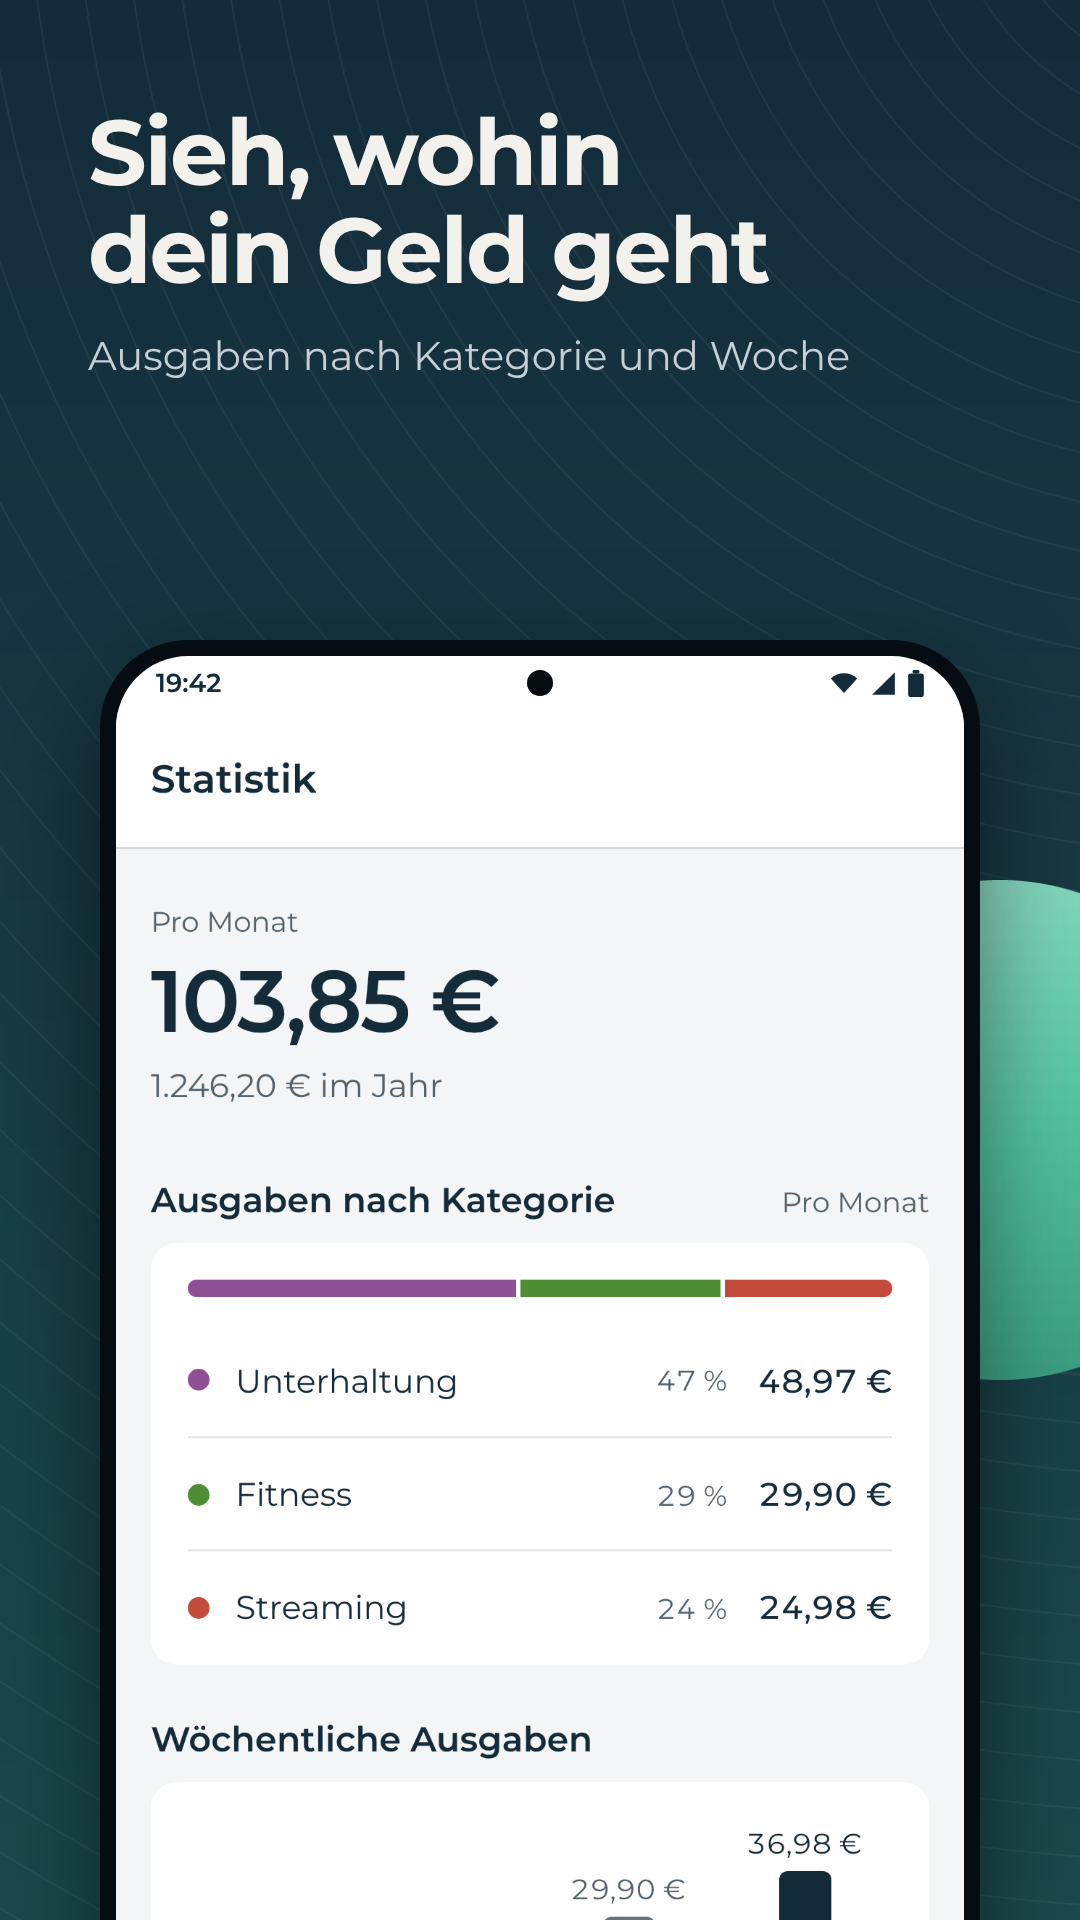
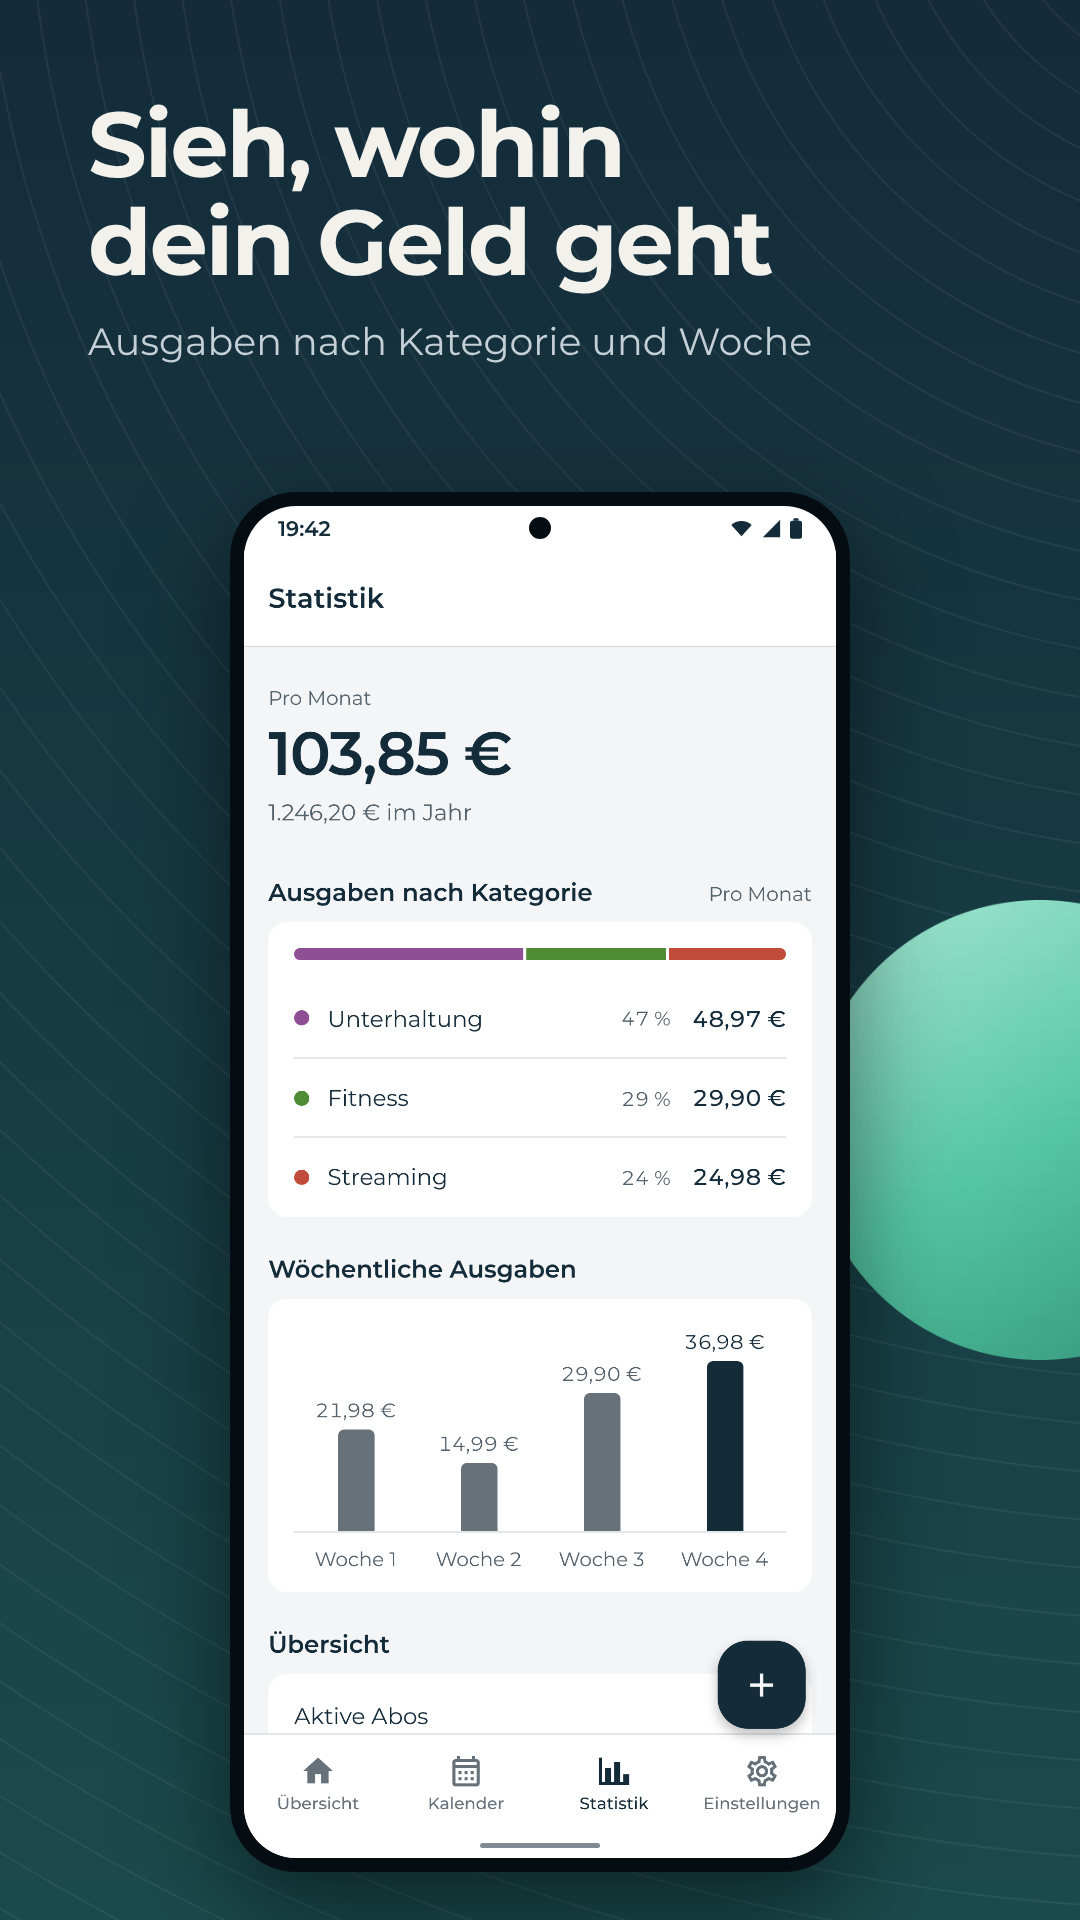
Play screenshots: show the whole phone and the app's whole screen
On a phone the second set read as cut off: the drawn phone ran off the
bottom of each frame. Now the phone stands whole in every frame, gesture
bar included, with the app's complete screen inside it, tab bar
included. The reminder notification on the first frame sits inside the
phone over the status bar and app bar only, as Android shows it.

compose.js refuses a raw screen of the wrong size instead of cropping or
stretching it, and steps a headline down until it fits above the phone.

Store art and tooling only: deploys nothing.

Claude-Session: https://claude.ai/code/session_018ye9DFVeXhKfQr21ffWbhc

diff --git a/tools/store-screenshots/compose.js b/tools/store-screenshots/compose.js
@@ -4,9 +4,10 @@
 //
 // THE SECOND SET, 2026-11-26, in the look the app now opens with (the Brand
 // panel): the navy stage and its rings behind the phone, the mint lens behind
-// it for depth, larger type, a larger phone, and on the first frame the real
-// reminder notification the app sends, in its own words. The last frame keeps
-// the light ground so the set does not read as one picture six times.
+// it for depth, larger type, the whole phone and the app's whole screen, and on
+// the first frame the real reminder notification the app sends, in its own
+// words, inside the phone as Android shows it. The last frame keeps the light
+// ground so the set does not read as one picture six times.
 const { chromium } = require('playwright');
 const fs = require('fs'), path = require('path');
 const ROOT = path.resolve(__dirname, '..', '..');
@@ -24,49 +25,66 @@ const LEAD_ON_STAGE = '#C5D0D6';
 const INK = '#142B3A';
 const SLATE = '#52616B';
 
-const PHONE_TOP = 640;
-const PHONE_W = 880;
+// THE WHOLE PHONE, 2026-11-27, the owner's call ("should be the whole phone
+// without leaving anything out"): the phone stands complete inside the frame,
+// and the app's complete screen inside the phone, tab bar included. Its size
+// follows from the room under the caption, not the other way round.
+const PHONE_TOP = 492;
+const PHONE_BOTTOM = 1872;
+const BEZEL = 14;
+const STATUS_H = 44;
+const GESTURE_H = 26;
+const RAW_W = 1170;
+const RAW_H = 2532;
+const IMG_H = PHONE_BOTTOM - PHONE_TOP - 2 * BEZEL - STATUS_H - GESTURE_H;
+const SCREEN_W = Math.round((IMG_H * RAW_W) / RAW_H);
+const PHONE_W = SCREEN_W + 2 * BEZEL;
+const PHONE_LEFT = Math.round((1080 - PHONE_W) / 2);
 
-const html = ({ shot, bar, ground, title, sub, lens, note }) => {
+const html = ({ shot, bar, foot, ground, title, sub, lens, note, h1 }) => {
   const stage = ground === 'stage';
   const barText = bar.dark ? '#F2F1EC' : '#142B3A';
-  const lensLeft = lens === 'left' ? -170 : 1080 - 330;
+  const pill = foot.dark ? '#F2F1EC' : '#142B3A';
+  const lensLeft = lens === 'left' ? -210 : PHONE_LEFT + PHONE_W - 40;
   return `<!doctype html><html><head><meta charset="utf-8"><style>
 @font-face{font-family:M;font-weight:400;src:${font('Regular')}}
 @font-face{font-family:M;font-weight:600;src:${font('SemiBold')}}
 @font-face{font-family:M;font-weight:700;src:${font('Bold')}}
 html,body{margin:0;width:1080px;height:1920px;overflow:hidden;font-family:M;
  background:${stage ? `#142B3A url(${url('assets/brand/stage.png')}) right top / auto 1920px no-repeat` : '#F3F5F6'}}
-.lens{position:absolute;left:${lensLeft}px;top:${note ? 1040 : 880}px;width:500px;height:500px}
-.cap{position:absolute;left:88px;right:88px;top:104px}
-h1{text-wrap:balance;margin:0;font-weight:700;font-size:92px;line-height:1.06;letter-spacing:-2.2px;color:${stage ? INK_ON_STAGE : INK}}
-p{text-wrap:pretty;margin:30px 0 0;font-weight:400;font-size:40px;line-height:1.36;color:${stage ? LEAD_ON_STAGE : SLATE}}
-.phone{position:absolute;left:${(1080 - PHONE_W) / 2}px;top:${PHONE_TOP}px;width:${PHONE_W}px;height:1700px;border-radius:88px;background:#060D12;
- box-shadow:0 40px 110px rgba(0,0,0,${stage ? 0.5 : 0.22})}
-.screen{position:absolute;left:16px;top:16px;right:16px;bottom:0;border-radius:72px 72px 0 0;overflow:hidden;background:${bar.color}}
-.status{height:54px;display:flex;align-items:center;justify-content:space-between;padding:0 40px;color:${barText};font-weight:600;font-size:26px;position:relative}
-.cam{position:absolute;left:50%;top:14px;width:26px;height:26px;margin-left:-13px;border-radius:50%;background:#060D12}
-.icons{display:flex;gap:12px;align-items:center}
-.screen img{display:block;width:${PHONE_W - 32}px}
-.note{position:absolute;left:72px;right:72px;top:${PHONE_TOP + 14}px;background:#FFFFFF;border-radius:40px;padding:34px 40px 38px;
- box-shadow:0 30px 80px rgba(6,13,18,.45)}
-.nhead{display:flex;align-items:center;gap:16px;color:${SLATE};font-size:27px;font-weight:600}
-.nicon{width:44px;height:44px;border-radius:50%;background:#142B3A;display:flex;align-items:center;justify-content:center}
-.nicon img{width:26px;height:28px}
-.dot{width:6px;height:6px;border-radius:50%;background:${SLATE}}
-.ntitle{margin-top:20px;color:${INK};font-weight:600;font-size:38px;line-height:1.25}
-.nbody{margin-top:8px;color:${SLATE};font-size:32px;line-height:1.35}
+.lens{position:absolute;left:${lensLeft}px;top:${note ? 1060 : 900}px;width:460px;height:460px}
+.cap{position:absolute;left:88px;right:88px;top:96px}
+h1{text-wrap:balance;margin:0;font-weight:700;font-size:${h1}px;line-height:1.06;letter-spacing:-2px;color:${stage ? INK_ON_STAGE : INK}}
+p{text-wrap:pretty;margin:26px 0 0;font-weight:400;font-size:38px;line-height:1.34;color:${stage ? LEAD_ON_STAGE : SLATE}}
+.phone{position:absolute;left:${PHONE_LEFT}px;top:${PHONE_TOP}px;width:${PHONE_W}px;height:${PHONE_BOTTOM - PHONE_TOP}px;border-radius:66px;background:#060D12;
+ box-shadow:0 36px 100px rgba(0,0,0,${stage ? 0.5 : 0.22})}
+.screen{position:absolute;left:${BEZEL}px;top:${BEZEL}px;width:${SCREEN_W}px;bottom:${BEZEL}px;border-radius:52px;overflow:hidden;background:${bar.color};display:flex;flex-direction:column}
+.status{flex:none;height:${STATUS_H}px;display:flex;align-items:center;justify-content:space-between;padding:0 34px;color:${barText};font-weight:600;font-size:21px;position:relative}
+.cam{position:absolute;left:50%;top:11px;width:22px;height:22px;margin-left:-11px;border-radius:50%;background:#060D12}
+.icons{display:flex;gap:9px;align-items:center}
+.shot{display:block;flex:none;width:${SCREEN_W}px;height:${IMG_H}px}
+.gesture{flex:1;background:${foot.color};display:flex;align-items:center;justify-content:center}
+.gesture span{width:120px;height:5px;border-radius:3px;background:${pill};opacity:.55}
+.note{position:absolute;left:${PHONE_LEFT + BEZEL + 10}px;width:${SCREEN_W - 20}px;box-sizing:border-box;top:${PHONE_TOP + BEZEL + 6}px;
+ background:#FFFFFF;border-radius:28px;padding:14px 20px 16px;box-shadow:0 18px 50px rgba(6,13,18,.40)}
+.nhead{display:flex;align-items:center;gap:10px;color:${SLATE};font-size:17px;font-weight:600}
+.nicon{width:26px;height:26px;border-radius:50%;background:#142B3A;display:flex;align-items:center;justify-content:center}
+.nicon img{width:15px;height:16px}
+.dot{width:4px;height:4px;border-radius:50%;background:${SLATE}}
+.ntitle{margin-top:8px;color:${INK};font-weight:600;font-size:23px;line-height:1.25}
+.nbody{margin-top:3px;color:${SLATE};font-size:20px;line-height:1.35}
 </style></head><body>
 <img class="lens" src="${url('assets/brand/stage-lens.png')}">
 <div class="cap"><h1>${title}</h1><p>${sub}</p></div>
 <div class="phone"><div class="screen">
  <div class="status"><span>${cfg.clock}</span><span class="cam"></span>
   <span class="icons">
-   <svg width="30" height="22" viewBox="0 0 26 20"><path d="M13 19 1 6a17 17 0 0 1 24 0Z" fill="${barText}"/></svg>
-   <svg width="25" height="25" viewBox="0 0 22 22"><path d="M21 1v20H1Z" fill="${barText}"/></svg>
-   <svg width="16" height="27" viewBox="0 0 14 24"><rect x="4" y="0" width="6" height="3" rx="1" fill="${barText}"/><rect x="0" y="3" width="14" height="21" rx="2.5" fill="${barText}"/></svg>
+   <svg width="23" height="17" viewBox="0 0 26 20"><path d="M13 19 1 6a17 17 0 0 1 24 0Z" fill="${barText}"/></svg>
+   <svg width="19" height="19" viewBox="0 0 22 22"><path d="M21 1v20H1Z" fill="${barText}"/></svg>
+   <svg width="12" height="21" viewBox="0 0 14 24"><rect x="4" y="0" width="6" height="3" rx="1" fill="${barText}"/><rect x="0" y="3" width="14" height="21" rx="2.5" fill="${barText}"/></svg>
   </span></div>
- <img src="${data(shot)}">
+ <img class="shot" src="${data(shot)}">
+ <div class="gesture"><span></span></div>
 </div></div>
 ${note ? `<div class="note"><div class="nhead"><span class="nicon"><img src="${url('assets/brand/mark-on-dark.png')}"></span>${note.app}<span class="dot"></span>${note.when}</div>
  <div class="ntitle">${note.title}</div><div class="nbody">${note.body}</div></div>` : ''}
@@ -80,15 +98,20 @@ ${note ? `<div class="note"><div class="nhead"><span class="nicon"><img src="${u
   for (let i = 0; i < cfg.frames.length; i++) {
     const [screen, theme, ground, title, sub, lens, withNote] = cfg.frames[i];
     const shot = path.join(S, `raw-${lang}-${theme}`, screen + '.png');
-    // The status bar takes the colour at the top of the app's own screen.
+    // The status bar takes the colour at the top of the app's own screen, the
+    // gesture strip the colour at its foot (the tab bar).
     await p.setContent(`<canvas id=c></canvas><img id=i src="${data(shot)}">`);
-    const bar = await p.evaluate(async () => {
+    const px = await p.evaluate(async () => {
       const img = document.getElementById('i'); await img.decode();
-      const c = document.getElementById('c'); c.width = img.naturalWidth; c.height = 20;
+      const c = document.getElementById('c'); c.width = img.naturalWidth; c.height = img.naturalHeight;
       const g = c.getContext('2d'); g.drawImage(img, 0, 0);
-      const [r, gr, bl] = g.getImageData(10, 10, 1, 1).data;
-      return { color: `rgb(${r},${gr},${bl})`, dark: (0.2126 * r + 0.7152 * gr + 0.0722 * bl) / 255 < 0.5 };
+      const at = (y) => {
+        const [r, gr, bl] = g.getImageData(10, y, 1, 1).data;
+        return { color: `rgb(${r},${gr},${bl})`, dark: (0.2126 * r + 0.7152 * gr + 0.0722 * bl) / 255 < 0.5 };
+      };
+      return { w: img.naturalWidth, h: img.naturalHeight, top: at(10), foot: at(img.naturalHeight - 4) };
     });
+    if (px.w !== RAW_W || px.h !== RAW_H) throw new Error(`${shot} is ${px.w}x${px.h}, not ${RAW_W}x${RAW_H}: the screen would be cropped or stretched`);
     // The reminder fires at the default lead, three days before the renewal
     // the dashboard shows, on the day the screens were shot.
     let note = null;
@@ -97,18 +120,22 @@ ${note ? `<div class="note"><div class="nhead"><span class="nicon"><img src="${u
       const n = cfg.notification;
       note = { ...n, body: n.body.replace('{date}', due.toLocaleDateString(n.locale)) };
     }
-    const doc = html({ shot, bar, ground, title, sub, lens, note });
-    fs.writeFileSync(path.join(S, 'tmp.html'), doc);
-    await p.goto('file://' + path.join(S, 'tmp.html'));
-    await p.evaluate(() => document.fonts.ready);
-    await p.waitForTimeout(200);
-    // The phone starts below the caption block, which is measured, not guessed.
-    const capBottom = await p.evaluate(() => document.querySelector('.cap').getBoundingClientRect().bottom);
-    if (capBottom + 40 > PHONE_TOP) throw new Error(`caption too tall on ${screen}: ${capBottom}`);
+    // The caption gets the room above the phone: the headline steps down from
+    // 92 px until it fits, and a caption that still does not fit is an error.
+    let capBottom = Infinity, h1 = 96;
+    while (capBottom + 36 > PHONE_TOP && h1 > 68) {
+      h1 -= 4;
+      fs.writeFileSync(path.join(S, 'tmp.html'), html({ shot, bar: px.top, foot: px.foot, ground, title, sub, lens, note, h1 }));
+      await p.goto('file://' + path.join(S, 'tmp.html'));
+      await p.evaluate(() => document.fonts.ready);
+      await p.waitForTimeout(150);
+      capBottom = await p.evaluate(() => document.querySelector('.cap').getBoundingClientRect().bottom);
+    }
+    if (capBottom + 36 > PHONE_TOP) throw new Error(`caption too tall on ${screen}: ${capBottom}`);
     const fams = await p.evaluate(() => [...document.fonts].filter((f) => f.status === 'loaded').length);
     const name = `${String(i + 1).padStart(2, '0')}-${screen}${theme === 'dark' ? '-dark' : ''}.png`;
     await p.screenshot({ path: path.join(out, name) });
-    console.log(name, 'caption ends', Math.round(capBottom), 'fonts', fams, note ? note.body : '');
+    console.log(name, 'headline', h1, 'caption ends', Math.round(capBottom), 'phone', PHONE_W, 'x', PHONE_BOTTOM - PHONE_TOP, 'fonts', fams);
   }
   await b.close();
 })();

diff --git a/tools/store-screenshots/README.md b/tools/store-screenshots/README.md
@@ -7,7 +7,9 @@ generated. The recipe for that preview is in docs/history.md ("A SANDBOX CAN
 NOW INSTALL, TYPECHECK, RUN JEST AND SEE THE APP"). First set 2026-11-12; the
 second set, 2026-11-26, is in the look the app now opens with (the navy stage,
 its rings and the mint lens), with larger type, a larger phone and the real
-reminder notification on the first frame.
+reminder notification on the first frame. The WHOLE phone and the app's whole
+screen, tab bar included, at the owner's word on 2026-11-27: a phone running
+off the bottom of the frame read as cut off.
 
 1. `demo-accounts.js <lang> <token file>`: one account per language through
    the real API, catalogue prices that carry a `verified` date only (EUR for
@@ -24,8 +26,8 @@ reminder notification on the first frame.
    shows the "notifications are off" warning, which a phone with them on does
    not.
 3. `compose.js <lang> <work dir>`: captions, the notification and its wording
-   from `captions.json`, a plain Android frame (punch hole camera, never an
-   iPhone notch), Montserrat from `assets/fonts`, the stage and lens from
+   from `captions.json`, a plain Android phone shown whole (punch hole camera,
+   gesture bar, never an iPhone notch), sized to the room under the caption, Montserrat from `assets/fonts`, the stage and lens from
    `assets/brand`. The status bar takes the top colour of each raw screen. The
    notification's text is the app's own (`notifications.reminders.renewTitle`
    and `renewBody`), its date the shot day plus three, in the app's format.

diff --git a/docs/history.md b/docs/history.md
@@ -7228,3 +7228,16 @@ last one left off without needing a recap typed out.
   2026-12-08 READ of the listing text pasted 2026-11-10: screenshots changed
   inside that 28 day window would make it unreadable, at a traffic where it is
   only a direction anyway.
+- THE WHOLE PHONE IN THE PLAY SCREENSHOTS, 2026-11-27. The owner, viewing the
+  second set on a phone: "doesn't look full size, they are cut", then "should
+  be the whole phone without leaving anything out". Two causes. The overview
+  sent first joined all twelve frames into one wide image, which a phone viewer
+  shrinks and crops, so the frames were then sent one by one. And each frame ran
+  the phone off the bottom edge on purpose, to show the screen larger; that read
+  as cut. Now the phone stands whole in every frame (620 x 1380 px, gesture bar
+  included) with the app's complete screen inside, tab bar included, and the
+  reminder notification sits inside the phone over the status bar and the app
+  bar only, as Android shows it, leaving the greeting and the total visible.
+  `compose.js` refuses a raw screen that is not 1170 x 2532 (it would crop or
+  stretch) and steps a headline down from 92 px until it fits above the phone.
+  The cost, said to the owner: the app's own text is smaller in the store.
